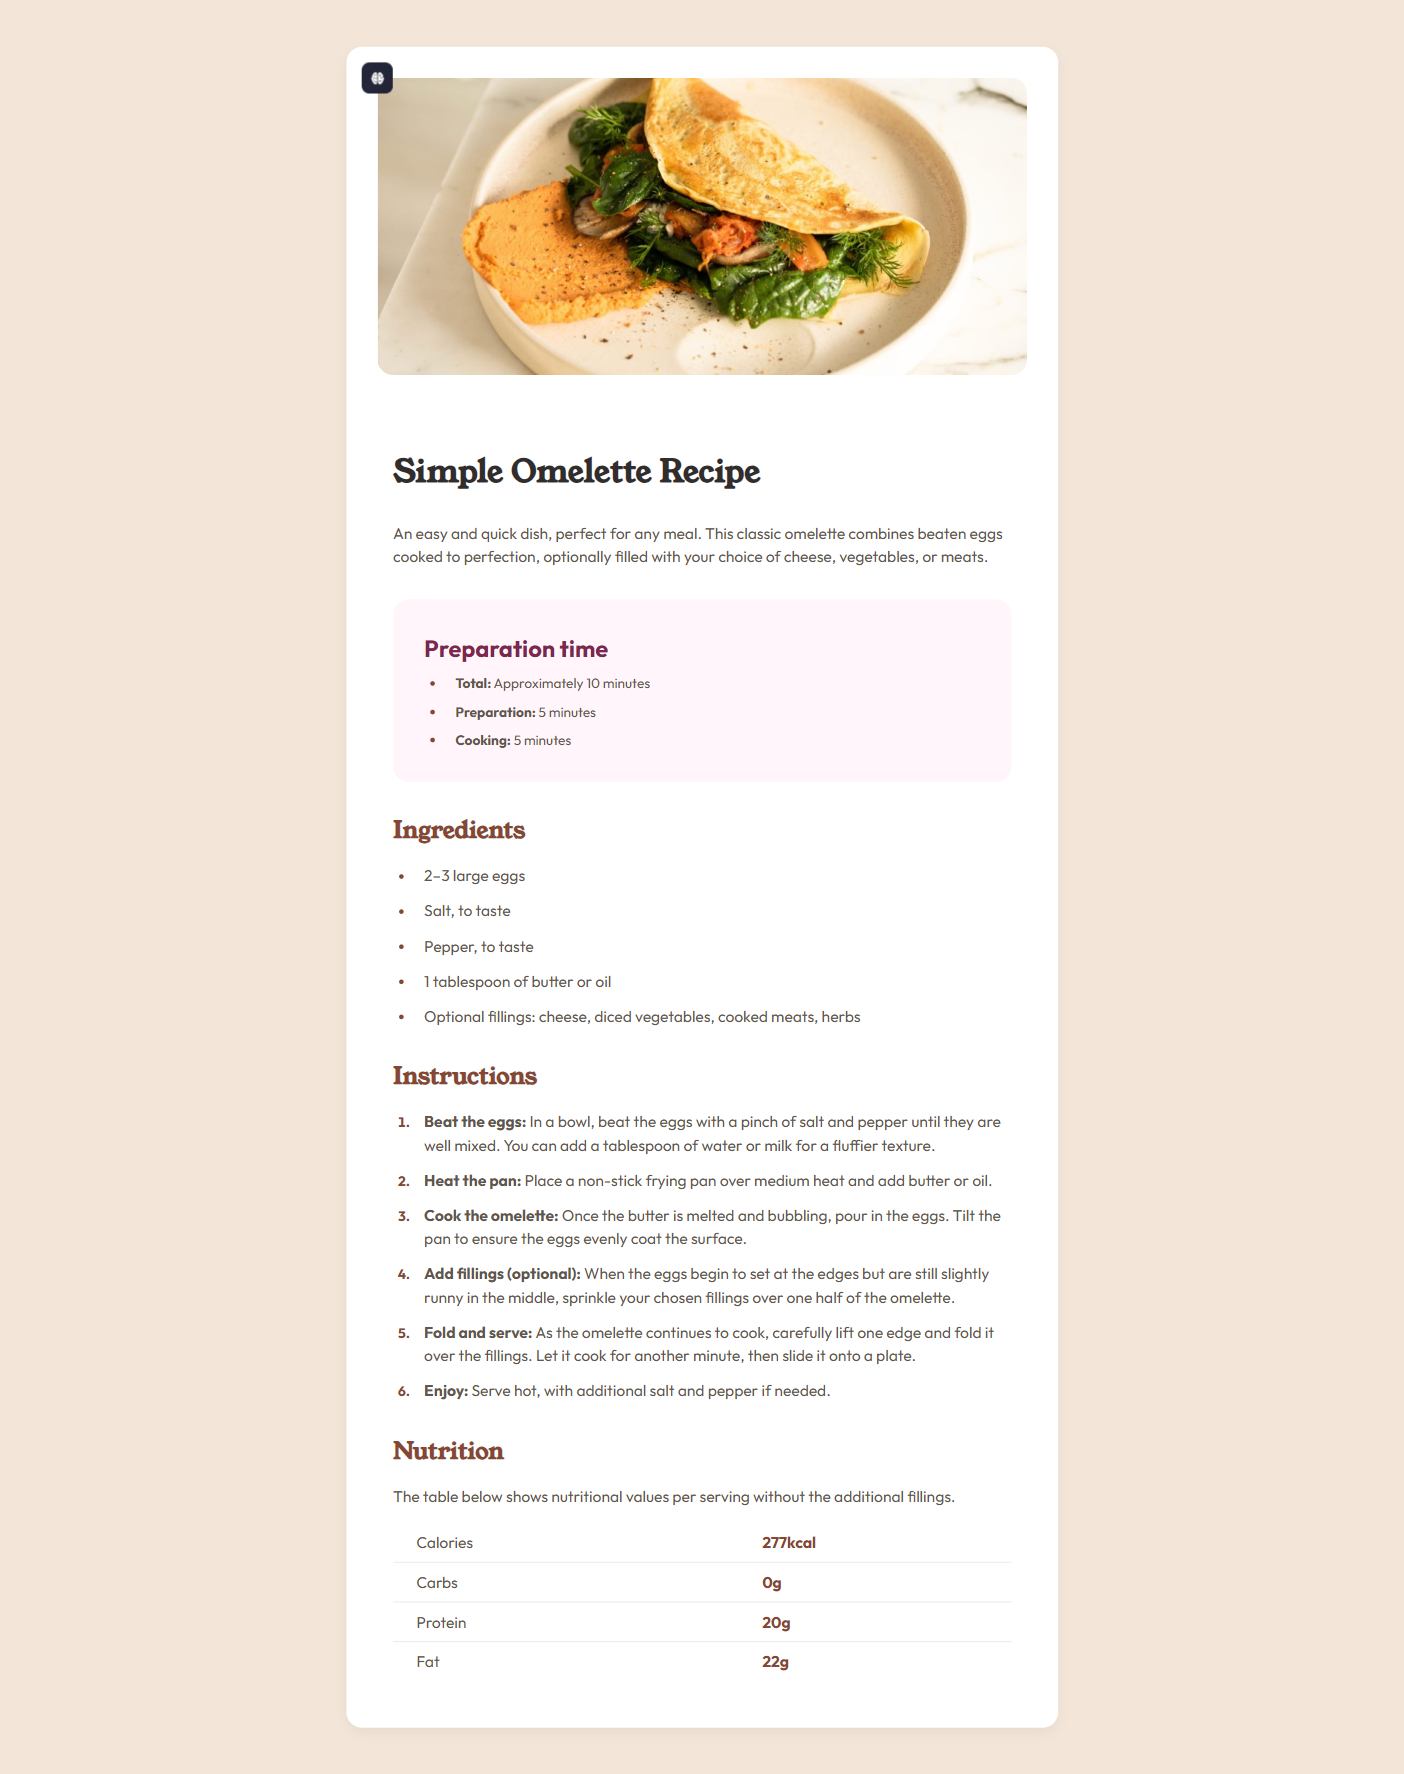
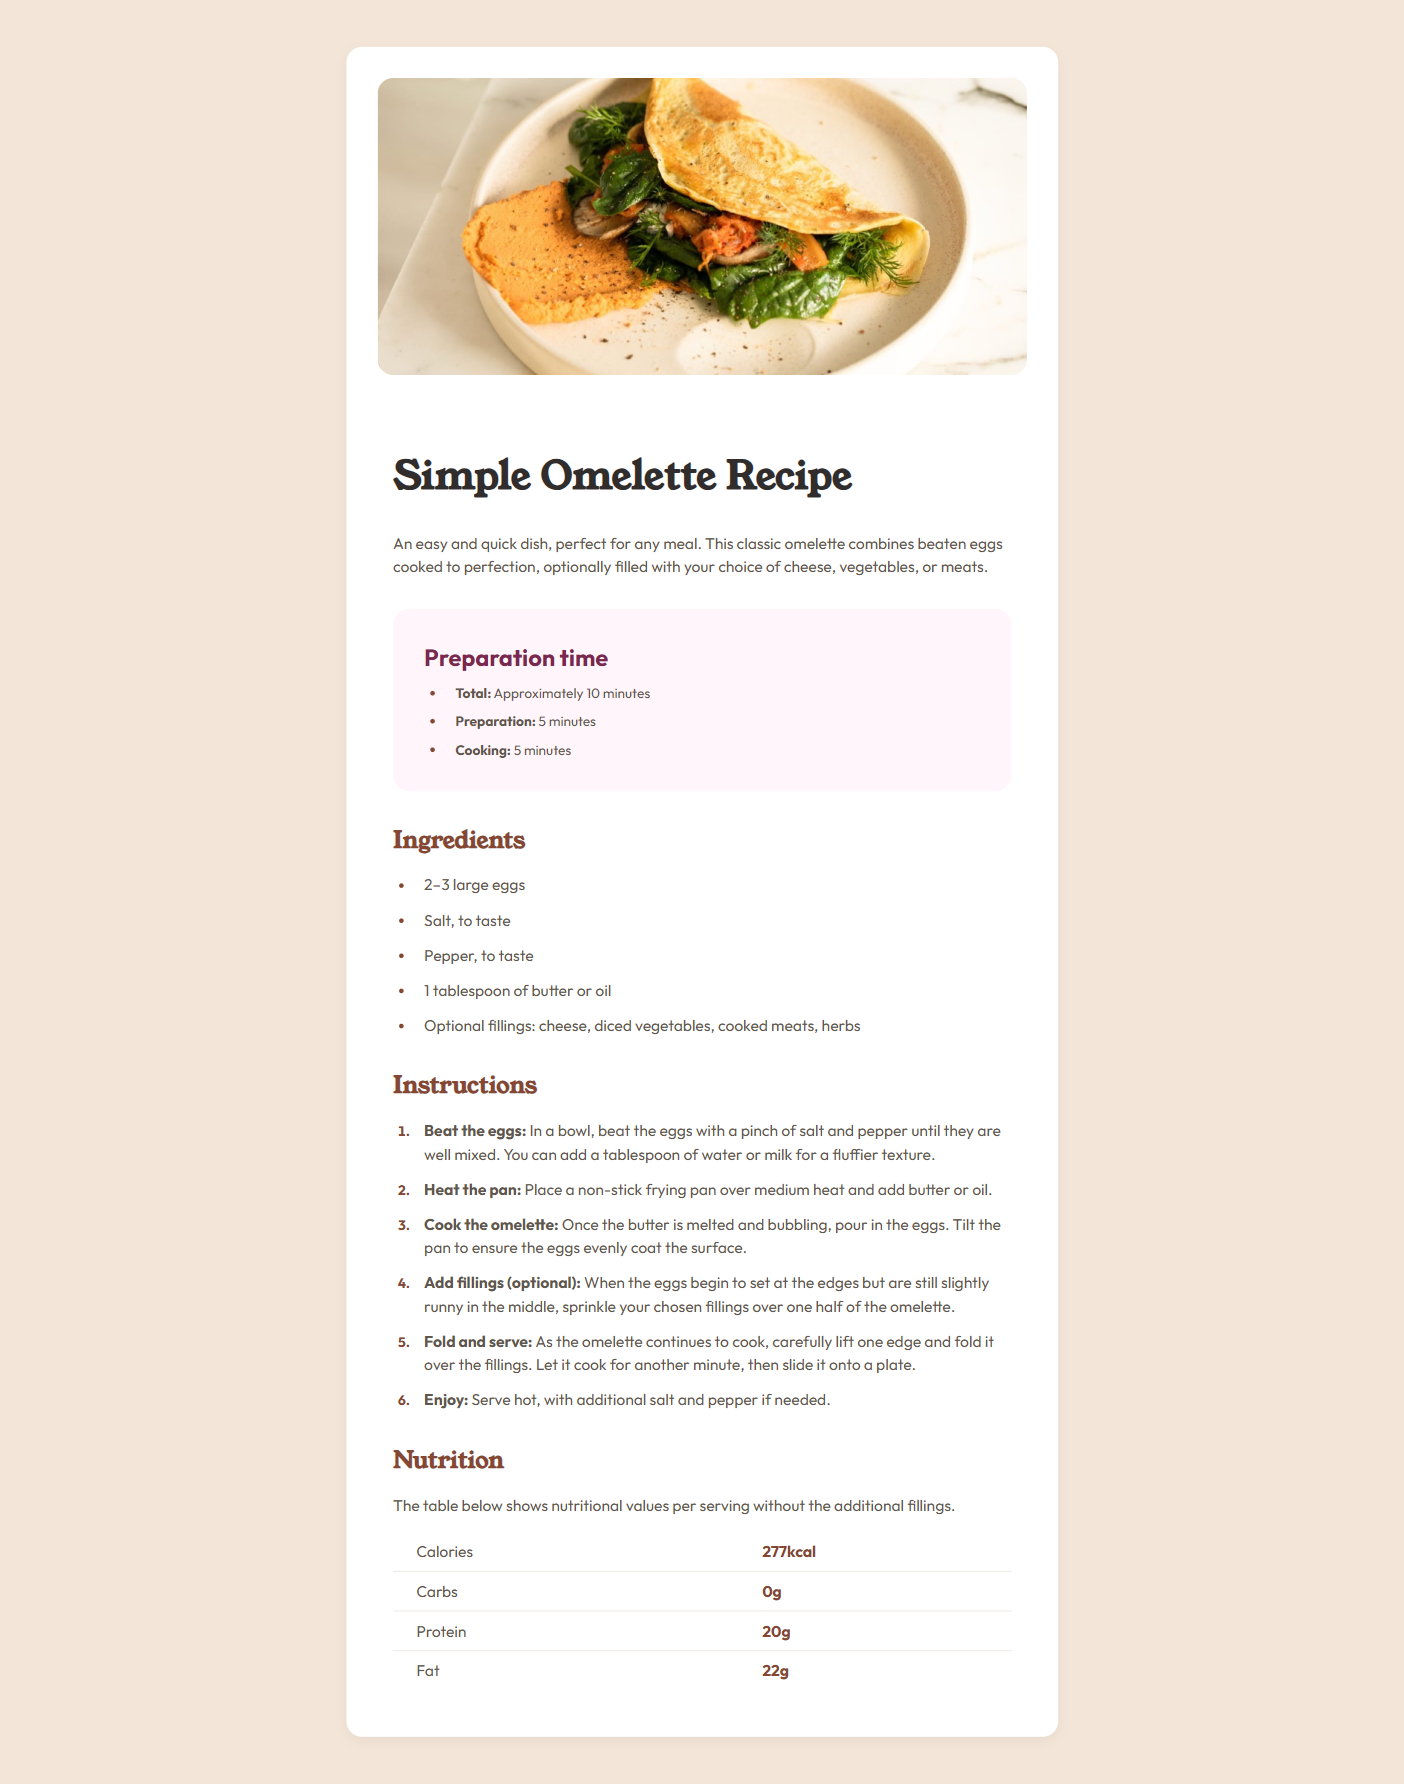
update title

diff --git a/css/style.css b/css/style.css
@@ -136,6 +136,9 @@ img {
   .recipe-card__content {
     padding: 3rem;
   }
+  .recipe-card__content-title {
+    font-size: 2.5rem;
+  }
 }
 body {
   min-height: 100vh;

diff --git a/scss/components/_card.scss b/scss/components/_card.scss
@@ -128,6 +128,10 @@ border-top-right-radius: #{space("md")};
 
   &__content {
     padding: #{space("xxl")};
+
+     &-title{
+      font-size: 2.5rem;
+     }
   }
 }
 
